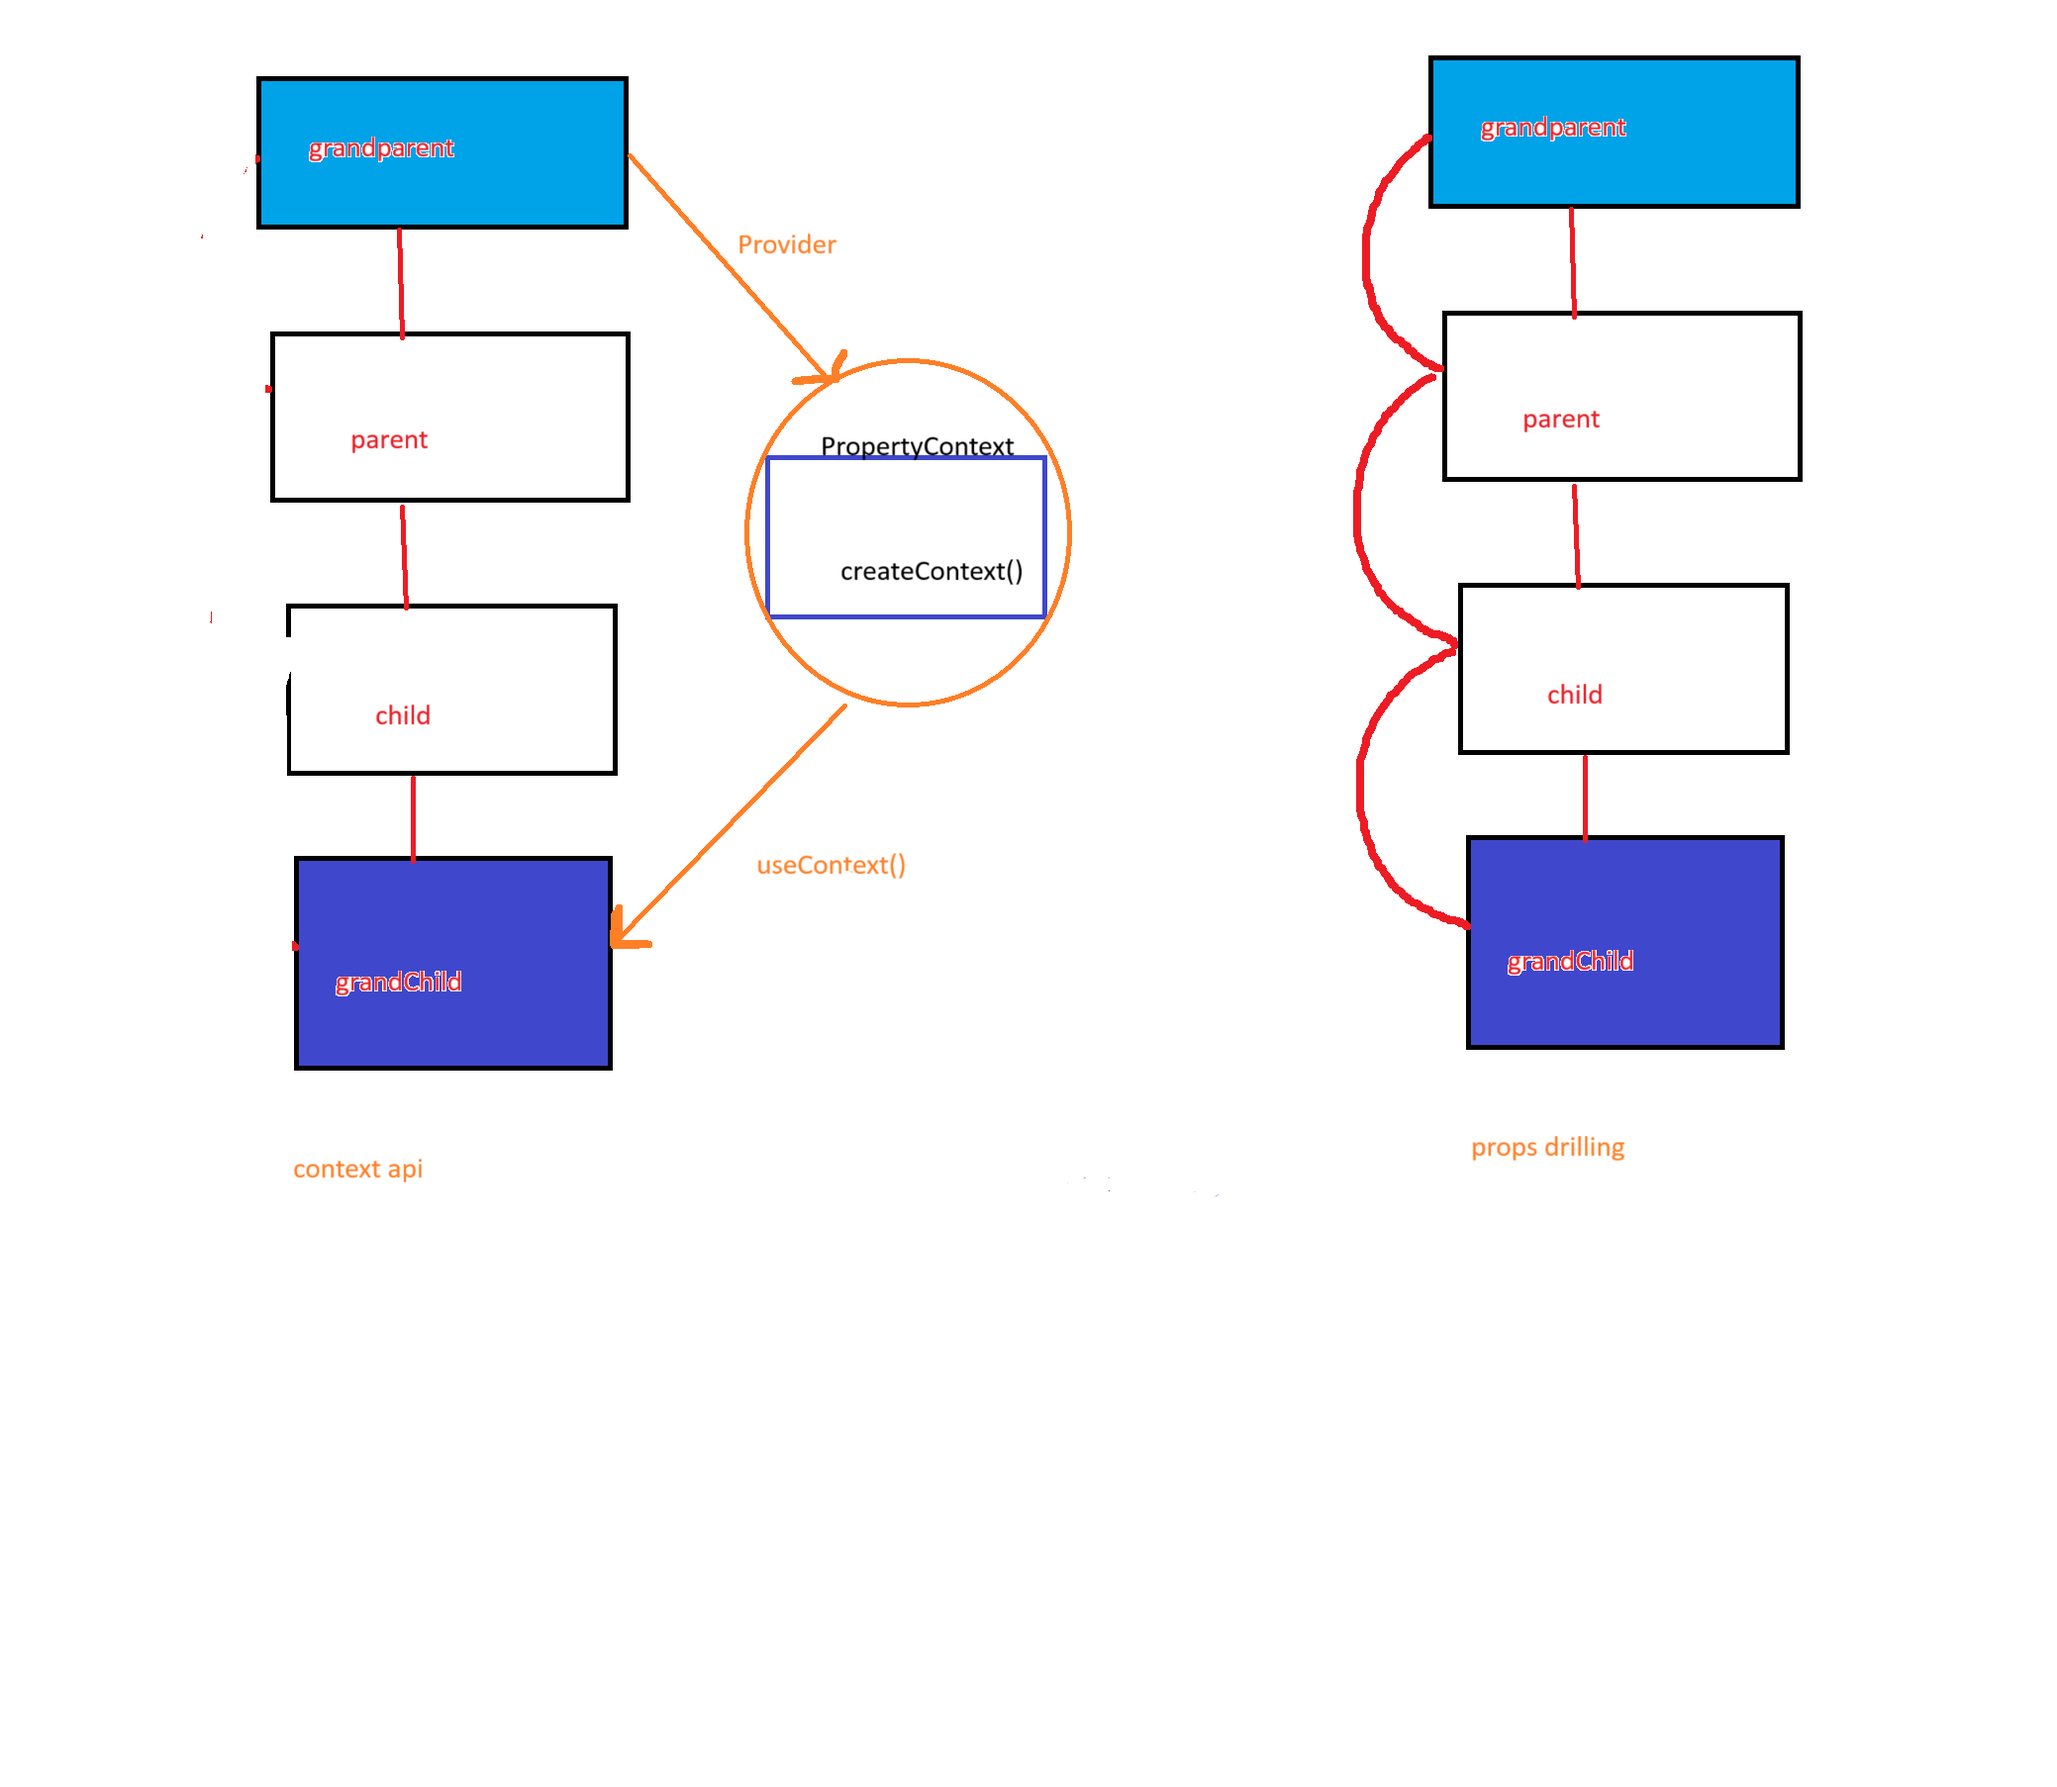
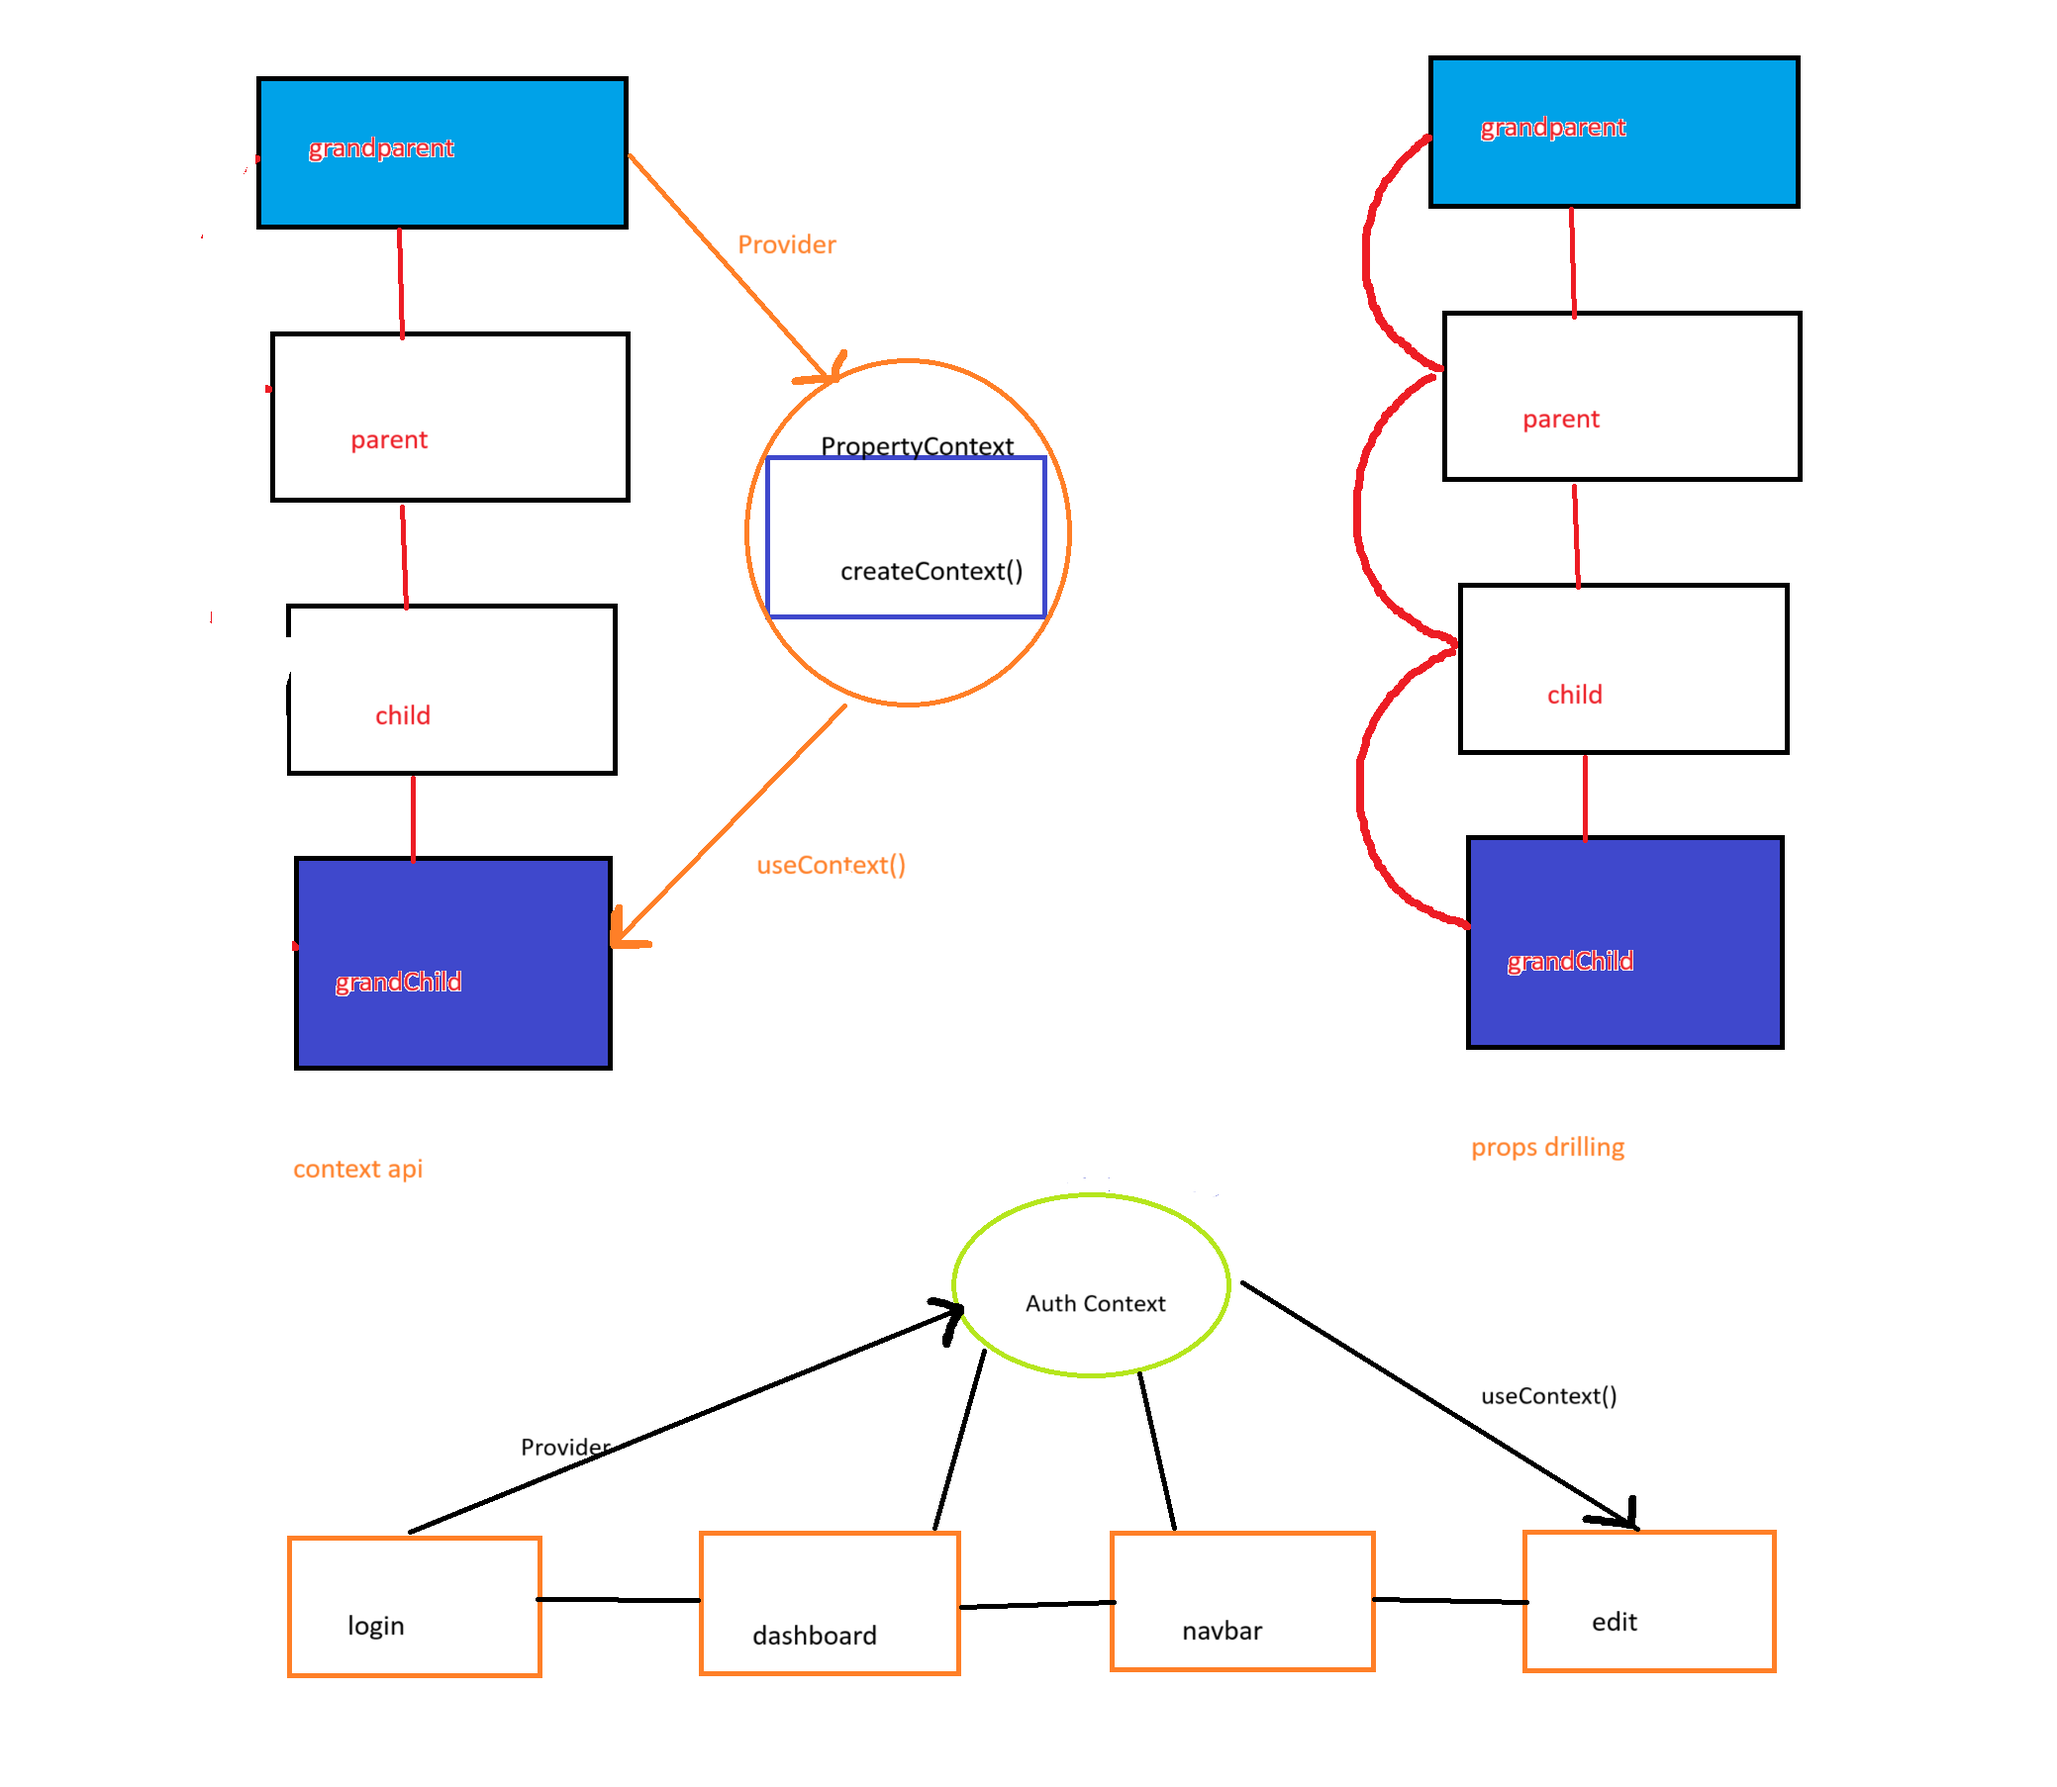
day 29

diff --git a/react/second_react_project/src/main.jsx b/react/second_react_project/src/main.jsx
@@ -13,6 +13,7 @@ import Parent3 from './props/Parent3.jsx'
 import Parent4 from './props/Parent4.jsx'
 import GrandParent from './props/PropsDrilling.jsx'
 import GrandParentContext from './context/ContextParent.jsx'
+import Login from './context/Application.jsx'
 
 createRoot(document.getElementById('root')).render(
   <StrictMode>
@@ -26,6 +27,7 @@ createRoot(document.getElementById('root')).render(
    {/* <Parent3/> */}
    {/* <Parent4/> */}
    {/* <GrandParent/> */}
-   <GrandParentContext/>
+   {/* <GrandParentContext/> */}
+   <Login/>
   </StrictMode>,
 )

diff --git a/react/second_react_project/src/context/Application.jsx b/react/second_react_project/src/context/Application.jsx
@@ -1,0 +1,38 @@
+/**
+ * Login
+ * Dashboard
+ * NavBar
+ * Edit
+ *
+ */
+const Login = () => {
+  return (
+    <>
+      <div>Login</div>
+      <Dashboard />
+    </>
+  );
+};
+const Dashboard = () => {
+  return (
+    <>
+      <div>Dashboard</div>
+      <NavBar />
+    </>
+  );
+};
+const NavBar = () => {
+  return (
+    <>
+      <div>Navbar</div>
+      <Edit />
+    </>
+  );
+};
+const Edit = () => {
+  return <> 
+  <div>edit</div>
+  </>
+};
+
+export default Login;
